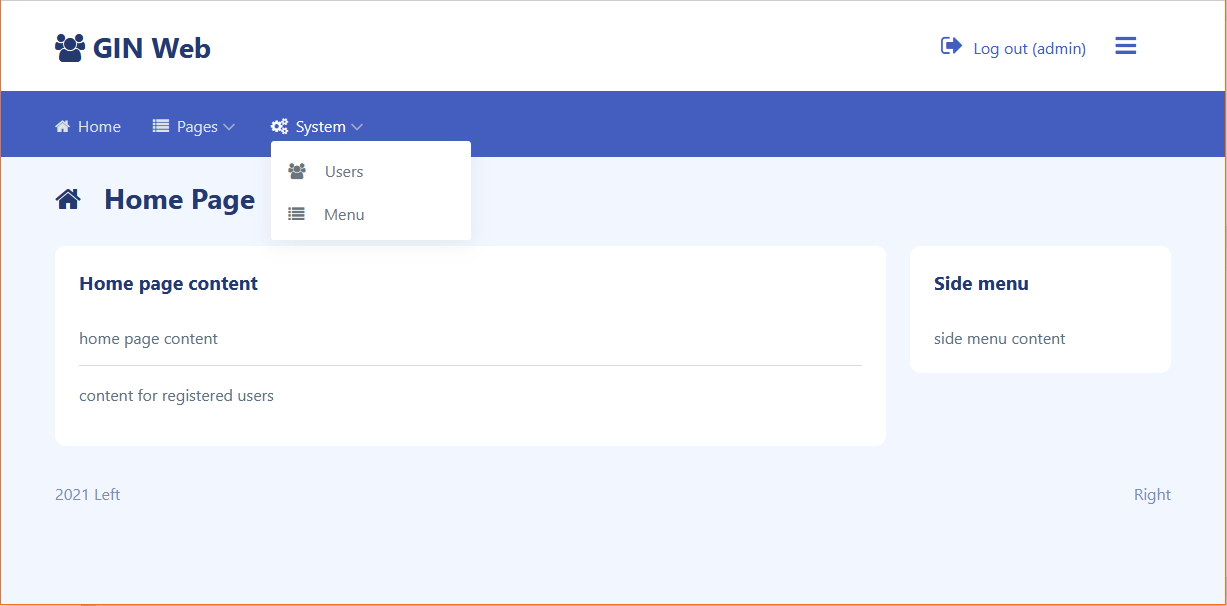
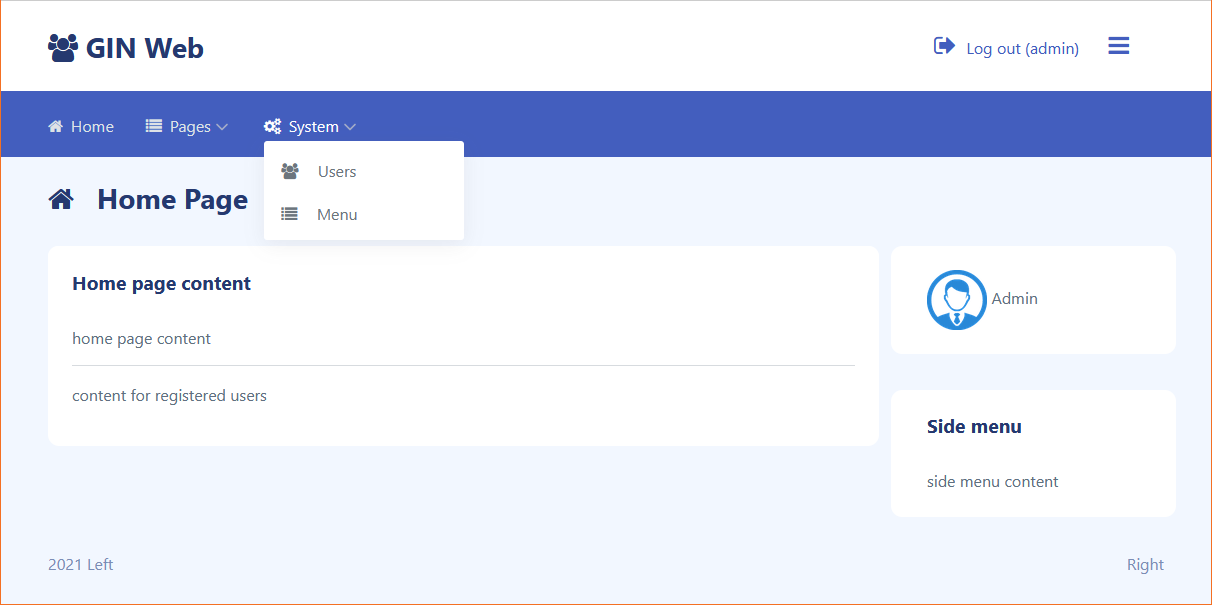
update home page

diff --git a/templates/pages/page-home.html b/templates/pages/page-home.html
@@ -1,33 +1,35 @@
 {{template "top.html" .}}
 <section class="row">
     <div class="col-12 col-lg-9">
-        <div class="row">
-            <div class="col-12">
-                <div class="card">
-                    <div class="card-header">
-                        <h4>Home page content</h4>
-                    </div>
-                    <div class="card-body">
-                        <p>home page content</p>
-                        {{ if .AppData.UserAuth }}
-                        <hr>
-                        <p>content for registered users</p>
-                        {{ end }}
-                    </div>
-                </div>
+        <div class="card">
+            <div class="card-header">
+                <h4>Home page content</h4>
+            </div>
+            <div class="card-body">
+                <p>home page content</p>
+                {{ if .AppData.UserAuth }}
+                <hr>
+                <p>content for registered users</p>
+                {{ end }}
             </div>
         </div>
     </div>
     <div class="col-12 col-lg-3">
-        <div class="card">
-            <div class="card-header">
-                <h4>Side menu</h4>
+        {{ if .AppData.UserAuth }}<div class="row">
+            <div class="card">
+                <div class="card-body">
+                    <img id="userAvatar" width="60px" alt="avatar" src="/media/avatars/{{ .AppData.UserData.Avatar }}"> {{ .AppData.UserData.Fullname }}
+                </div>
             </div>
-            <div class="card-body">
-                <hr>
-                <div><img id="userAvatar" width="60px" alt="avatar" src="/media/avatars/{{ .AppData.UserData.Avatar }}"> {{ .AppData.UserData.Fullname }}</div>
-                <hr>
-                side menu content
+        </div>{{ end }}
+        <div class="row">
+            <div class="card">
+                <div class="card-header">
+                    <h4>Side menu</h4>
+                </div>
+                <div class="card-body">
+                    side menu content
+                </div>
             </div>
         </div>
     </div>
